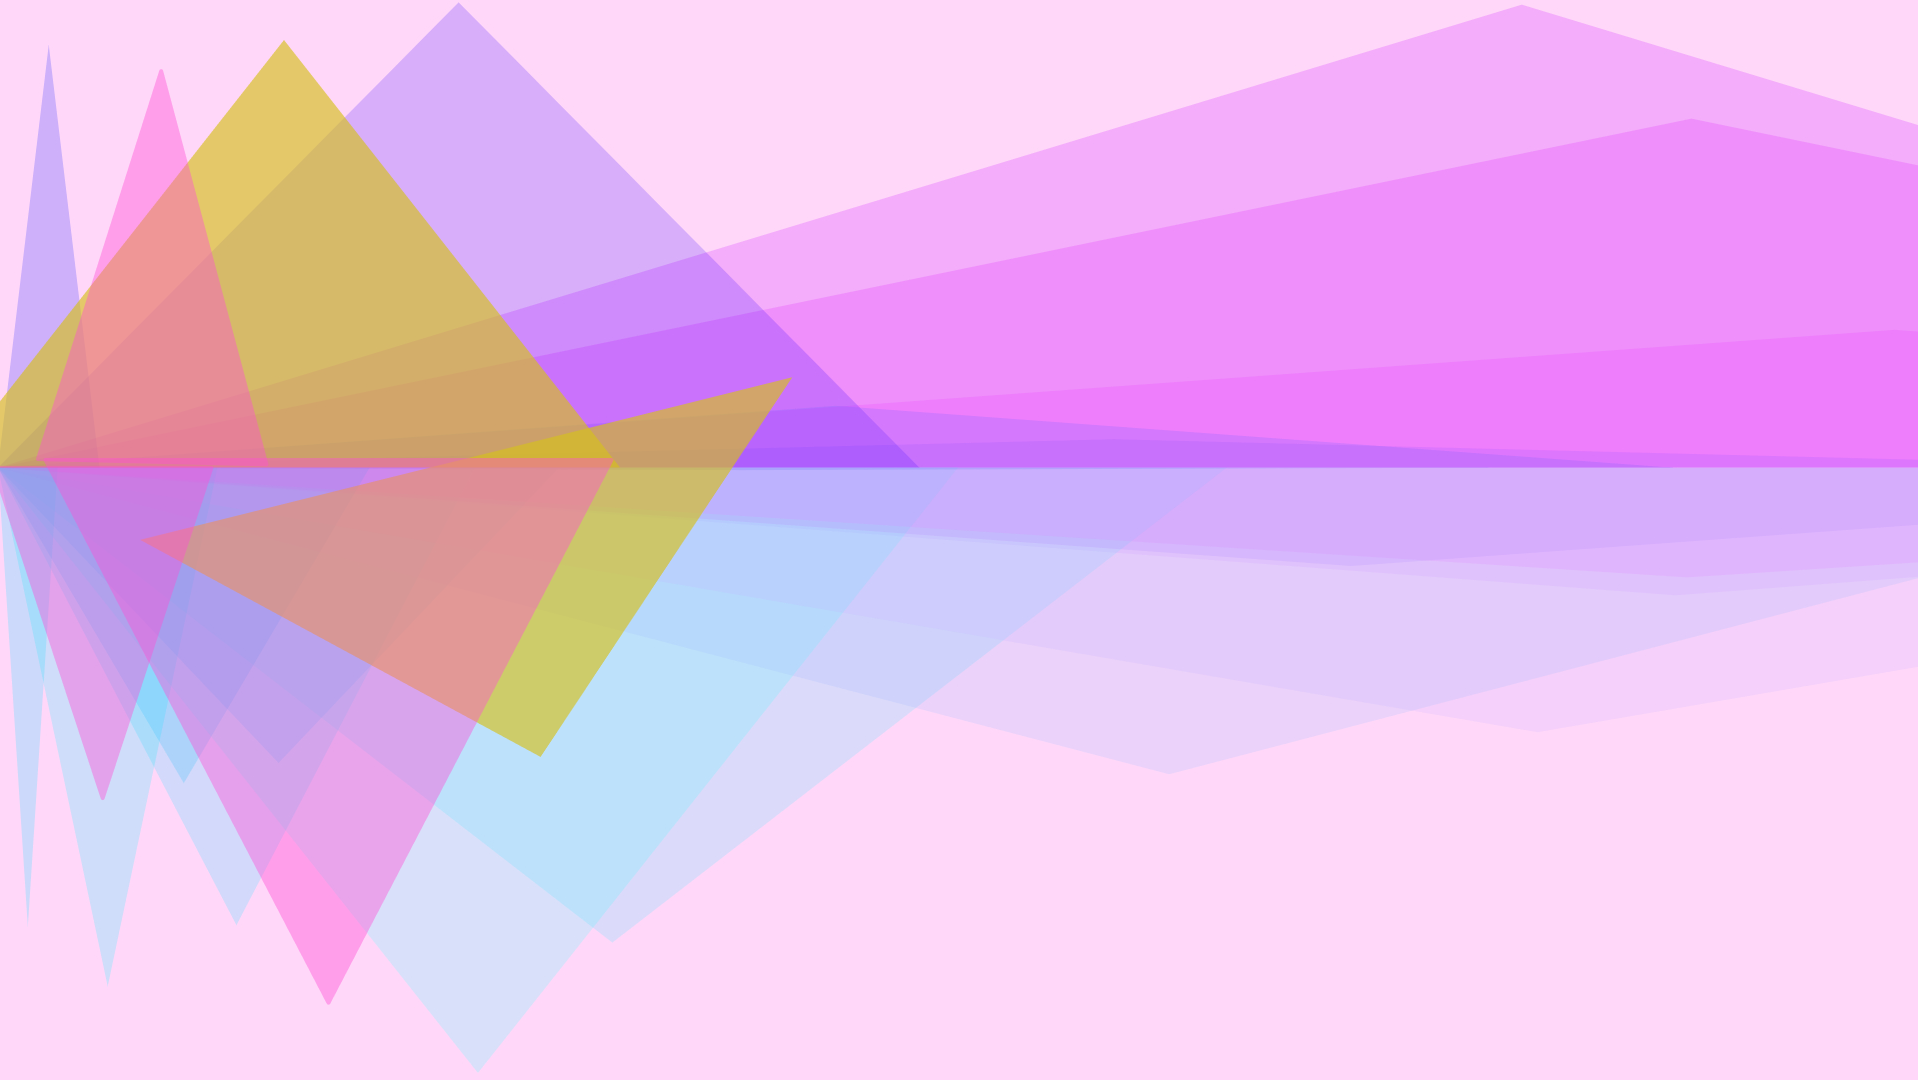
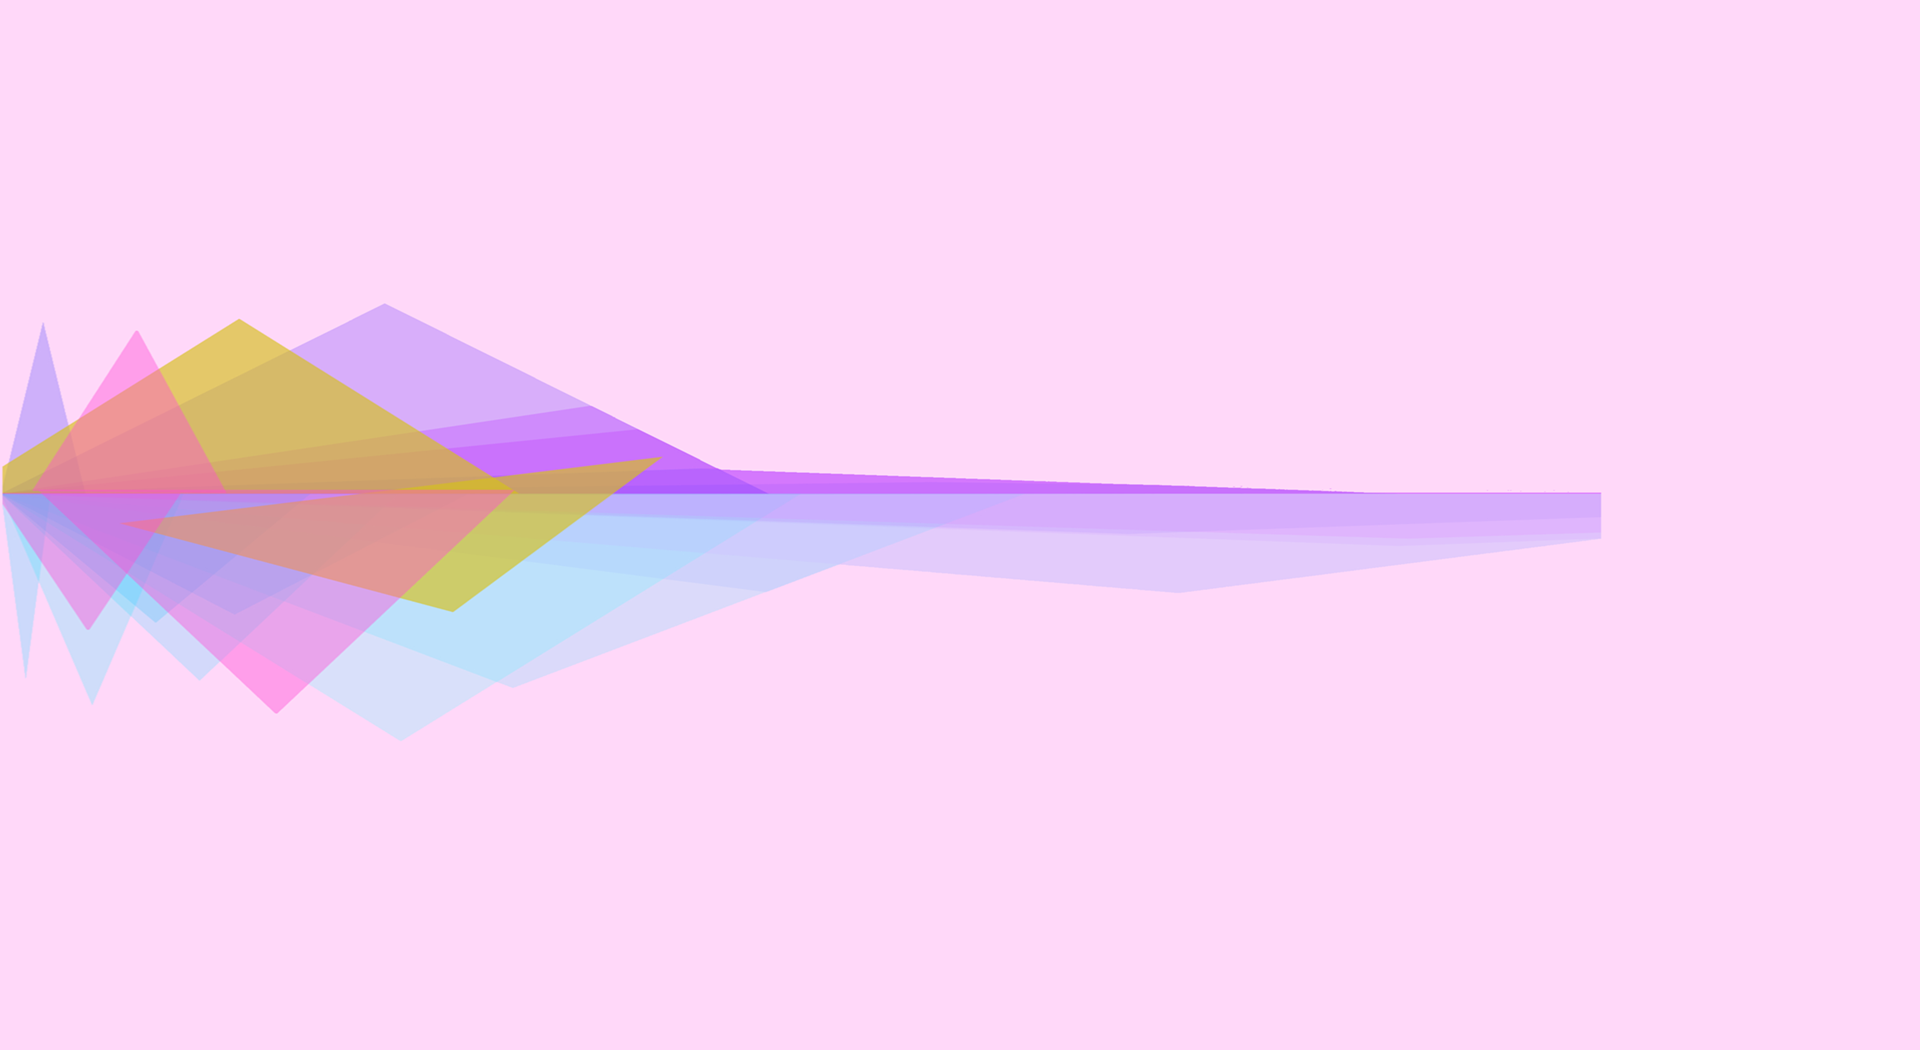
Resized hero and about section background images. Styling changes for fonts and section headings.

diff --git a/styles/style.css b/styles/style.css
@@ -12,20 +12,21 @@ body {
 div.container-fluid {
   padding: 2px;
 }
+div.navigation {
+  padding: 5px;
+}
 nav.navbar {
   margin: 1% 10% 3% 10%;
   border-bottom: 1px solid black;
   border-radius: 5px;
   background-color: #f0ede6;
-  padding: 0 6%;
-  font-size: 35px;
-  line-height: 1.5;
+  font-size: 22px;
 }
 p.brand {
+  margin: 0;
   font-family: "Inknut Antiqua", serif;
   font-weight: 550;
-  margin-top: 15px;
-  font-size: 35px;
+  font-size: 24px;
 }
 a.navbarLinks:hover {
   text-decoration: underline;
@@ -41,28 +42,33 @@ a.active {
 }
 img.heroImage {
   position: relative;
-  bottom: 300px;
+  bottom: 210px;
   height: 15%;
-  width: 30%;
+  width: 25%;
   border-radius: 45%;
   border: 3px solid black;
   margin: 6% 0 0 0;
 }
 h3 {
-  font-size: 30px;
+  font-size: 25px;
   color: var(--primary-color);
 }
 h3.home {
-  margin-top: 30px;
+  font-size: 20px;
+  margin-bottom: 0;
 }
 h1 {
   font-size: 55px;
+}
+h1.home {
+  font-size: 35px;
 }
 h2 {
   color: var(--secondary-color);
   font-size: 35px;
 }
 h2.home {
+  font-size: 20px;
   margin-bottom: 3%;
 }
 p {
@@ -96,8 +102,10 @@ section.hero {
   background-image: url("/images/1background-spray.png");
   background-repeat: no-repeat;
   background-size: contain;
+  padding: 2%;
 }
 div.heroSectionInner {
+  max-width: 50%;
   background: linear-gradient(
     180deg,
     hsla(42, 25%, 92%, 1) 35%,
@@ -109,31 +117,30 @@ div.heroSectionInner {
   padding: 2% 2%;
 }
 div.hero-paragraph {
-  align-items: center;
-  max-width: 40%;
+  max-width: 50%;
   margin: 15px auto;
-  font-size: 22px;
+  font-size: 18px;
   color: rgba(0, 0, 0, 0.7);
 }
 div.welcome {
   position: relative;
-  bottom: 180px;
+  bottom: 130px;
   margin: 0 auto;
   text-align: center;
 }
 h1.welcomeText {
   color: rgb(175 14 137);
-  font-size: 70px;
+  font-size: 40px;
   font-family: "Playwrite HR", cursive;
 }
 div.heroText {
   position: relative;
-  top: -260px;
+  bottom: 200px;
 }
 span.flagImage {
   display: inline-flex;
-  width: 25px;
-  height: 25px;
+  width: 16px;
+  height: 16px;
 }
 .heroSection {
   background-color: #f0ede6;
@@ -150,46 +157,56 @@ heading.about {
 }
 h1.about {
   position: absolute;
-  left: 635px;
+  left: 550px;
   z-index: 10;
-  font-size: 60px;
+  font-size: 35px;
   font-weight: 600;
 }
 .gold-box {
   position: absolute;
   z-index: 0;
   background: gold;
-  width: 315px;
-  left: 670px;
-  top: 50px;
-  height: 25px;
+  height: 18px;
+  width: 185px;
 }
 .pink-box {
   position: absolute;
   z-index: 1;
   background: #f5269f;
-  width: 20px;
-  left: 892px;
-  top: -3em;
-  height: 8em;
+  width: 10px;
+  height: 95px;
+}
+.about .gold-box {
+  left: 560px;
+  top: 25px;
+}
+.about .pink-box {
+  left: 695px;
+  top: -25px;
 }
 section.about {
   margin-bottom: 4%;
 }
-div.aboutSection {
+div.about {
+  padding: 3%;
+}
+section.about {
+  max-width: 50%;
   background-image: url("../images/triangles1.jpg");
   background-repeat: no-repeat;
   background-size: contain;
-  background-position: center;
   margin: 0 auto;
-  max-width: 55%;
-  padding: 4% 5%;
+  padding: 5%;
+}
+div.aboutSectionInner {
+  padding: 0 15%;
 }
 div.aboutParagraph {
-  max-width: 55%;
-  font-size: 30px;
   font-weight: 500;
-  margin: 10% auto;
+  margin: 0 auto;
+}
+.about p {
+  font-size: 18px;
   text-align: justify;
 }
 span.funFact {
@@ -209,32 +226,22 @@ h1.technology {
   position: absolute;
   left: 475px;
   z-index: 10;
-  font-size: 60px;
+  font-size: 35px;
   font-weight: 600;
 }
 .technology .gold-box {
-  position: absolute;
-  z-index: 0;
-  background: gold;
-  width: 370px;
   left: 530px;
   top: 50px;
-  height: 25px;
 }
 .technology .pink-box {
-  position: absolute;
-  z-index: 1;
-  background: #f5269f;
-  width: 20px;
   left: 810px;
   top: -3em;
-  height: 8em;
 }
 div.technologyImage {
   margin: 2% auto;
 }
 .technologyImage img {
-  width: 1000px;
+  width: 500px;
 }
 section.projects {
   max-width: 65%;
@@ -244,26 +251,16 @@ h1.projects {
   position: absolute;
   left: 520px;
   z-index: 10;
-  font-size: 60px;
+  font-size: 35px;
   font-weight: 600;
 }
 .projects .gold-box {
-  position: absolute;
-  z-index: 0;
-  background: gold;
-  width: 310px;
   left: 530px;
   top: 50px;
-  height: 25px;
 }
 .projects .pink-box {
-  position: absolute;
-  z-index: 1;
-  background: #f5269f;
-  width: 20px;
   left: 750px;
   top: -3em;
-  height: 8em;
 }
 .projects .row {
   margin: 8% 0;

diff --git a/index.html b/index.html
@@ -41,7 +41,7 @@
       <!--Section 1 - Hero-->
       <section class="hero">
         <div class="container heroSectionInner">
-        <img src="images/Novia-black.jpg" alt="Novia Avatar" class="heroImage" />
+        <img src="images/Novia-black.jpg" alt="Novia Headshot" class="heroImage" />
         <div class="heroText">
           <h3 class="home">👋🏾 Hi, my name is</h3>
           <h1 class="home">Novia Hoyte</h1>
@@ -55,17 +55,9 @@
           <div class="hero-paragraph">
             <p>
               I love writing code and making ideas come to life! Scroll down to
-              learn more about me, contact me, or check out some of my work 👇🏾
+              learn more about me, check out some of my work, or contact me 👇🏾
             </p>
           </div>
-
-          <!-- <span class="heroImageFullSnack">
-            <img
-              class="full-snack"
-              src="images/Full-Snack Developer.png"
-              alt="Full-Snack Developer"
-            />
-          </span> -->
         </div>
         <div class="welcome">
           <h1 class="welcomeText" id="welcome-text"></h1>
@@ -128,34 +120,32 @@
       <!--End Navigation Menu-->
 
       <!--Section 2 - About Me-->
-      <section class="container-fluid about" id="about">
-        <div class="aboutSection">
-            <div class="wrapper">
-              <h1 class="about">About Me</h1>
-              <div class="gold-box"></div>
-              <div class="pink-box"></div>
-            </div>
-      <!-- <div class="row"> -->
-        <!-- <div class="col-lg">
-          <img class="img-fluid avatar" src="images/Avatar.png" alt="Novia">
-        </div> -->
-        <div class="col-lg aboutParagraph">
-          <p class="overflow-auto">
-            Novia Hoyte started out as a Mathematics/Criminal Justice major with plans
-            to attend a top law school and become a prosecutor. As required coursework, 
-            Novia took several coding courses including C++, Java, and MySQL. These courses 
-            planted the seed of interest that set Novia onto an alternate path.            
-            Upon finishing her B.S. in Mathematics and B.A. in Criminal Jutice in 
-            2015, she decided to enroll in graduate school as an Information Technology 
-            major, forgoeing her prior plans to attend law school.<br/><br/>
-
-            After completing her M.S. in Information Technology, Novia was confident
-            that she made the right choice! She is constantly intrigued by the ever-changing 
-            flow of technology. <br/><br/>
-            
-            <span class="funFact">Fun Fact:</span> Novia loves music, Thriller/Mystery novels, and the color pink!
-          </p>
+        <div class="container about">
+          <div class="wrapper">
+            <h1 class="about">About Me</h1>
+            <div class="gold-box"></div>
+            <div class="pink-box"></div>
         </div>
+      </div>
+      <section class="container-fluid about" id="about">
+        <div class="container aboutSectionInner">            
+          <div class="col-lg aboutParagraph">
+            <p class="overflow-auto">
+              Novia Hoyte started out as a Mathematics/Criminal Justice major with plans
+              to attend a top law school and become a prosecutor. As required coursework, 
+              Novia took several coding courses including C++, Java, and MySQL. These courses 
+              planted the seed of interest that set Novia onto an alternate path.            
+              Upon finishing her B.S. in Mathematics and B.A. in Criminal Jutice in 
+              2015, she decided to enroll in graduate school as an Information Technology 
+              major, forgoeing her prior plans to attend law school.<br/><br/>
+
+              After completing her M.S. in Information Technology, Novia was confident
+              that she made the right choice! She is constantly intrigued by the ever-changing 
+              flow of technology. <br/><br/>
+              
+              <span class="funFact">Fun Fact:</span> Novia loves music, Thriller/Mystery novels, and the color pink!
+            </p>
+          </div>
         </div>
       </section>
       <!--End Section 2-->
